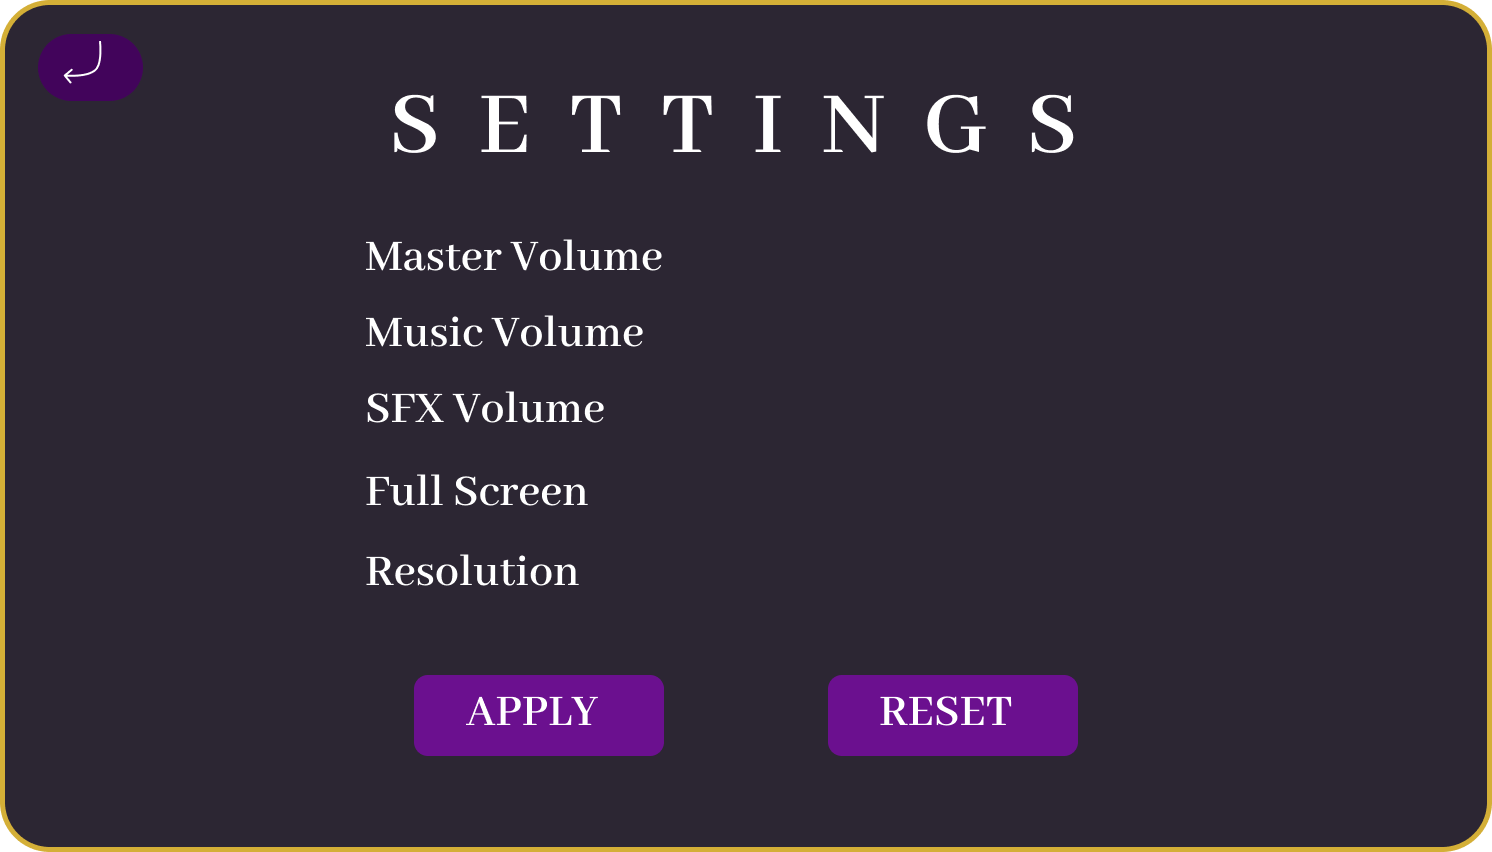
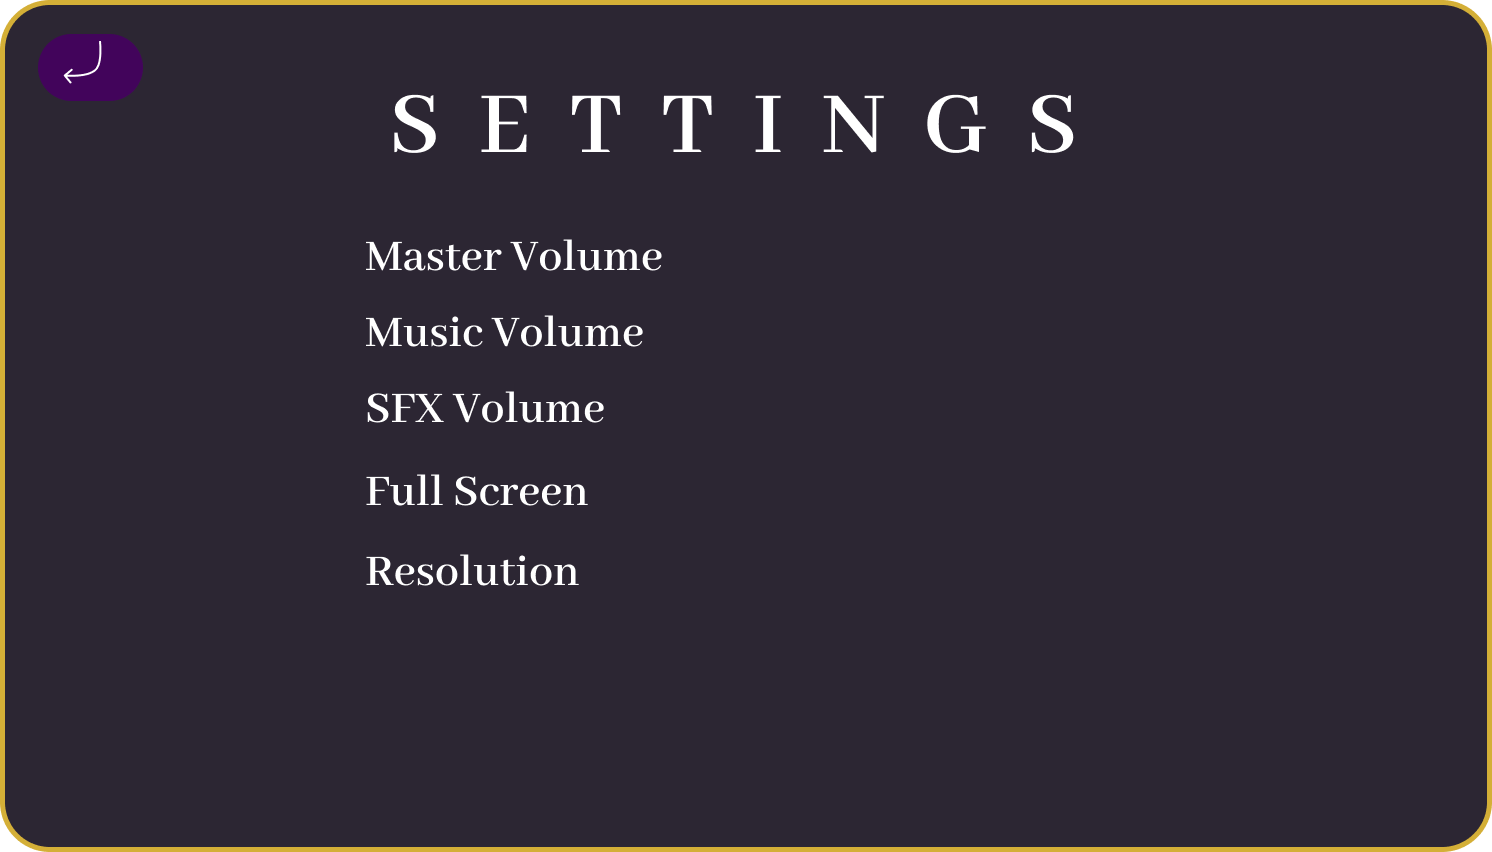
feat(ui): Settings panel 'Reset' & 'Confirm' buttons inverted

Changed region(s): [[0.555, 0.7934, 0.7399, 0.885], [0.2775, 0.7934, 0.4625, 0.885]]

diff --git a/Assets/_Scripts/5. UI/SettingsUI.cs b/Assets/_Scripts/5. UI/SettingsUI.cs
@@ -107,6 +107,8 @@ namespace UI
                 _workingCache.WindowMode,
                 new RefreshRate {numerator = (uint)_workingCache.RefreshRate, denominator = 1}
                 );
+
+            RequestClose();
         }
 
         private void ResetToDefaults()
